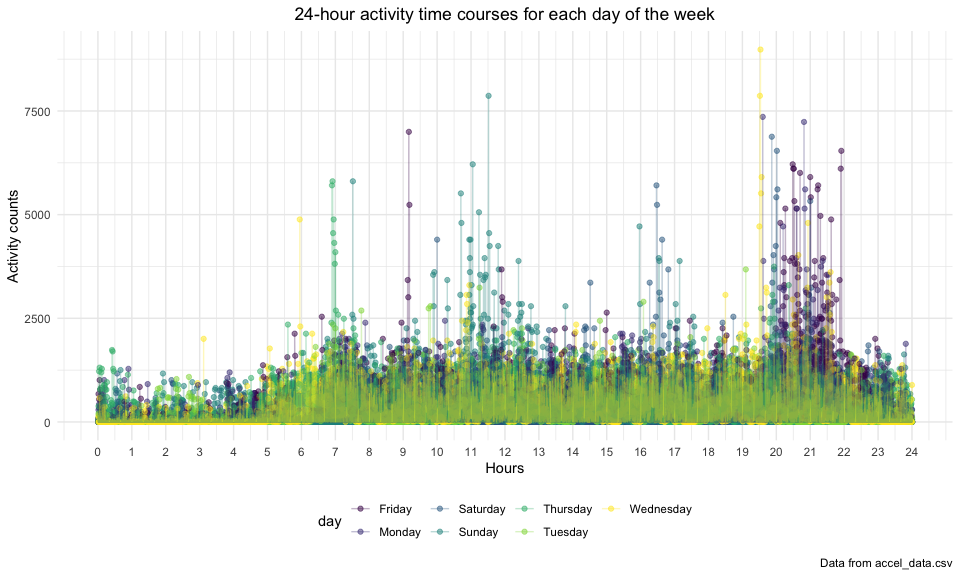
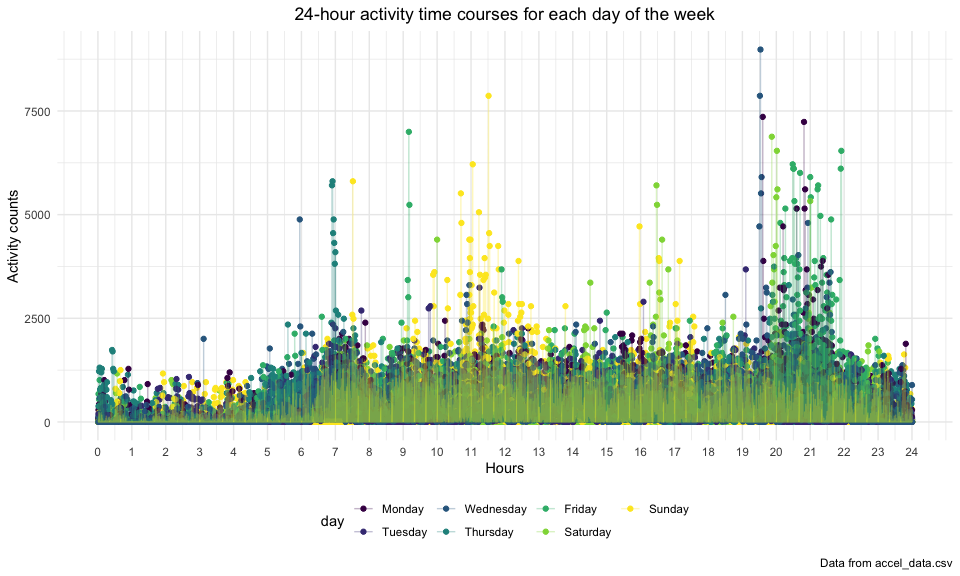
wrap up - format and descriptions

diff --git a/p8105_hw3_yj2686.md b/p8105_hw3_yj2686.md
@@ -11,7 +11,7 @@ Yiqun Jin
 data("instacart")
 ```
 
-Description of instacart dataset:
+**Description of instacart dataset:**
 
 The instacart dataset is an anonymized dataset with over 3 million
 online grocery orders from more than 200,000 Instacart users. This
@@ -19,13 +19,15 @@ dataset contains 1384617 observations of products from online orders,
 and 15 variables which are order\_id, product\_id, add\_to\_cart\_order,
 reordered, user\_id, eval\_set, order\_number, order\_dow,
 order\_hour\_of\_day, days\_since\_prior\_order, product\_name,
-aisle\_id, department\_id, aisle, department.
+aisle\_id, department\_id, aisle, department. Specifically,
+order\_number stands for the order sequence number for this user
+(1=first, n=nth), ranging from 4, 100. order\_dow stands for the day of
+the week on which the order was placed. And days\_since\_prior\_order
+stands for days since the last order, capped at 30, NA if order\_number
+= 1, ranging from 0, 30.
 
-How many aisles are there, and which aisles are the most items ordered
-from?
-
-There are `134` aisles and the most items ordered from
-`fresh vegetables`
+**How many aisles are there, and which aisles are the most items ordered
+from?**
 
 ``` r
 instacart %>% 
@@ -52,9 +54,11 @@ instacart %>%
     ## 10      112 bread                          23635
     ## # … with 124 more rows
 
-Make a plot that shows the number of items ordered in each aisle,
-limiting this to aisles with more than 10000 items ordered. Arrange
-aisles sensibly, and organize your plot so others can read it.
+**ANSWER:** There are `134` aisles and the most items ordered from
+`fresh vegetables`
+
+**Make a plot that shows the number of items ordered in each aisle,
+limiting this to aisles with more than 10000 items ordered.**
 
 ``` r
 instacart %>% 
@@ -66,21 +70,21 @@ instacart %>%
   ) %>% 
   ggplot(aes(x = ordered_num, y = aisle)) +
   geom_point() +
-  #scale_x_continuous(breaks = scales::pretty_breaks(ordered_num = 10)) +
-  scale_x_continuous(breaks = c(0, 25000, 50000,75000, 100000, 125000, 150000)) +
+  scale_x_continuous(breaks = seq(0,150000,by = 25000)) +
   labs(
     title = "The number of items ordered in each aisle",
     x = "The number of items",
     y = "Aisles",
     caption = "Data from instacart dataset"
-  ) 
+  ) +
+  theme(plot.title = element_text(hjust = 0.5))
 ```
 
 <img src="p8105_hw3_yj2686_files/figure-gfm/unnamed-chunk-3-1.png" width="90%" />
 
-Make a table showing the three most popular items in each of the aisles
-“baking ingredients”, “dog food care”, and “packaged vegetables fruits”
-and the number of times each item is ordered.
+**Make a table showing the three most popular items in each of the
+aisles “baking ingredients”, “dog food care”, and “packaged vegetables
+fruits” and the number of times each item is ordered.**
 
 ``` r
 instacart %>% 
@@ -107,8 +111,8 @@ instacart %>%
 | packaged vegetables fruits |    2 | Organic Raspberries                             |           1920 |
 | packaged vegetables fruits |    3 | Organic Blueberries                             |           1692 |
 
-Make a table showing the mean hour of the day at which Pink Lady Apples
-and Coffee Ice Cream are ordered on each day of the week:
+**Make a table showing the mean hour of the day at which Pink Lady
+Apples and Coffee Ice Cream are ordered on each day of the week:**
 
 ``` r
 instacart %>% 
@@ -154,11 +158,9 @@ brfss_df = brfss_smart2010 %>%
   mutate(response = factor(response, levels = c("Poor", "Fair", "Good", "Very good", "Excellent"),ordered = TRUE)) %>% 
   arrange(response) %>% 
   select(-locationabbr)
-  ##select(-locationabbr, -class, -topic,  -question, -c(confidence_limit_low:geo_location))
 ```
 
-1.  In 2002, which states were observed at 7 or more locations? What
-    about in 2010?
+**In 2002, which states were observed at 7 or more locations?**
 
 ``` r
 brfss_2002 = brfss_df %>% 
@@ -182,8 +184,10 @@ brfss_2002
     ## 5 NJ        8
     ## 6 PA       10
 
-ANSWER: CT, FL, MA, NC, NJ, PA were observed at 7 or more locations in
-2002.
+**ANSWER:** CT, FL, MA, NC, NJ, PA were observed at 7 or more locations
+in 2002.
+
+**What about in 2010?**
 
 ``` r
 brfss_2010 = brfss_df %>% 
@@ -215,12 +219,12 @@ brfss_2010
     ## 13 TX       16
     ## 14 WA       10
 
-ANSWER: CA, CO, FL, MA, MD, NC, NE, NJ, NY, OH, PA, SC, TX, WA were
+**ANSWER:** CA, CO, FL, MA, MD, NC, NE, NJ, NY, OH, PA, SC, TX, WA were
 observed at 7 or more locations in 2010.
 
-2.  Construct a dataset that is limited to Excellent responses, and
-    contains, year, state, and a variable that averages the data\_value
-    across locations within a state.
+**Construct a dataset that is limited to Excellent responses, and
+contains, year, state, and a variable that averages the data\_value
+across locations within a state.**
 
 ``` r
 excellent_df = brfss_df %>%
@@ -251,44 +255,43 @@ excellent_df
     ## 10 AL     2004            20  
     ## # … with 433 more rows
 
-Make a “spaghetti” plot of this average value over time within a state
-(that is, make a plot showing a line for each state across years – the
-geom\_line geometry and group aesthetic will help).
+**Make a “spaghetti” plot of the average value over time within a
+state.**
 
 ``` r
 excellent_df %>% 
   ggplot(aes(x = year, y = mean_data_value, color = state)) +
   geom_line(alpha = .5, aes(group = state, color = state)) +
   geom_point(alpha = .5, aes(group = state, color = state)) +
-  theme(axis.text.x = element_text(size = 10), legend.position = "right") +
   labs(
     title = "Average data value of Excellent responses over time in different states",
     x = "Year",
     y = "Mean data value of Excellent responses",
     caption = "Data from brfss_smart2010"
   ) +
-  theme(plot.title = element_text(hjust = 0.5))
+  theme(legend.position = "right",
+        plot.title = element_text(hjust = 0.5))
 ```
 
 <img src="p8105_hw3_yj2686_files/figure-gfm/unnamed-chunk-11-1.png" width="90%" />
 
-3.  Make a two-panel plot showing, for the years 2006, and 2010,
-    distribution of data\_value for responses (“Poor” to “Excellent”)
-    among locations in NY State.
+**Make a two-panel plot showing, for the years 2006, and 2010,
+distribution of data\_value for responses (“Poor” to “Excellent”) among
+locations in NY State.**
 
 ``` r
 NY_distribution = brfss_df %>% 
   filter(year %in% c(2006, 2010),
          state == "NY") %>% 
   group_by(year, response) %>% 
-  summarize(mean_dataValue = mean(data_value, na.rm = TRUE)) 
+  summarize(average_data_value = mean(data_value, na.rm = TRUE)) 
 ```
 
     ## `summarise()` has grouped output by 'year'. You can override using the `.groups` argument.
 
 ``` r
 NY_distribution %>% 
-  ggplot(aes(x = response, y = mean_dataValue, fill = response)) +
+  ggplot(aes(x = response, y = average_data_value, fill = response)) +
   geom_col(position = "dodge") +
   facet_grid(. ~ year) +
   labs(
@@ -303,8 +306,6 @@ NY_distribution %>%
 
 ## Problem 3
 
-Load, tidy, and otherwise wrangle the data.
-
 **Load and tidy Data**
 
 ``` r
@@ -317,40 +318,48 @@ accel_df = read.csv("./accel_data.csv") %>%
     names_prefix = "activity_"
   ) %>% 
   mutate(
-    weekend_or_weekday = if_else((day == "Saturday" | day == "Sunday"),"weekend","weekday"),
-    minute = as.numeric(minute)
-  )
+    weekend_or_weekday = if_else((day == "Saturday" | day == "Sunday"),"Weekend","Weekday"),
+    minute = as.numeric(minute),
+    day = factor(day, level = c("Monday","Tuesday","Wednesday","Thursday","Friday","Saturday","Sunday")),
+    weekend_or_weekday = factor(weekend_or_weekday, level = c("Weekday", "Weekend"))
+  ) %>% 
+  relocate(week,day_id, day,weekend_or_weekday)
 
 
 accel_df
 ```
 
     ## # A tibble: 50,400 × 6
-    ##     week day_id day    minute activity_counts weekend_or_weekday
-    ##    <int>  <int> <chr>   <dbl>           <dbl> <chr>             
-    ##  1     1      1 Friday      1            88.4 weekday           
-    ##  2     1      1 Friday      2            82.2 weekday           
-    ##  3     1      1 Friday      3            64.4 weekday           
-    ##  4     1      1 Friday      4            70.0 weekday           
-    ##  5     1      1 Friday      5            75.0 weekday           
-    ##  6     1      1 Friday      6            66.3 weekday           
-    ##  7     1      1 Friday      7            53.8 weekday           
-    ##  8     1      1 Friday      8            47.8 weekday           
-    ##  9     1      1 Friday      9            55.5 weekday           
-    ## 10     1      1 Friday     10            43.0 weekday           
+    ##     week day_id day    weekend_or_weekday minute activity_counts
+    ##    <int>  <int> <fct>  <fct>               <dbl>           <dbl>
+    ##  1     1      1 Friday Weekday                 1            88.4
+    ##  2     1      1 Friday Weekday                 2            82.2
+    ##  3     1      1 Friday Weekday                 3            64.4
+    ##  4     1      1 Friday Weekday                 4            70.0
+    ##  5     1      1 Friday Weekday                 5            75.0
+    ##  6     1      1 Friday Weekday                 6            66.3
+    ##  7     1      1 Friday Weekday                 7            53.8
+    ##  8     1      1 Friday Weekday                 8            47.8
+    ##  9     1      1 Friday Weekday                 9            55.5
+    ## 10     1      1 Friday Weekday                10            43.0
     ## # … with 50,390 more rows
 
-Describe the resulting dataset:
+**Describe the resulting dataset:**
 
-The accel\_df contains 50400 observations of activity (accelerometer
-data), and there are 6 variables, which are week, day\_id, day, minute,
-activity\_counts, weekend\_or\_weekday that describing the information
-of data.
+The accel\_df dataset contains five weeks of accelerometer data
+collected on a 63 year-old male with BMI 25, who was admitted to the
+Advanced Cardiac Care Center of Columbia University Medical Center and
+diagnosed with congestive heart failure (CHF). The accel\_df dataset
+contains 50400 observations of activity (accelerometer data), and there
+are 6 variables, which are week, day\_id, day, weekend\_or\_weekday,
+minute, activity\_counts that describing the information of data.
+Specifically, minute stands for the number of minute of a 24-hour day
+starting at midnight, range from 1, 1440 minutes. And activity\_counts
+stands for the activity count of the male collected by accelerometer,
+ranging from 1, 8982.
 
-Traditional analyses of accelerometer data focus on the total activity
-over the day. Using your tidied dataset, aggregate accross minutes to
-create a total activity variable for each day, and create a table
-showing these totals. Are any trends apparent?
+**Aggregate across minutes to create a total activity variable for each
+day, and create a table showing these totals.**
 
 ``` r
 total_activity_df = accel_df %>% 
@@ -398,6 +407,8 @@ knitr::kable(total_activity_df)
 |      34 |       367824.00 |
 |      35 |       445366.00 |
 
+**Are any trends apparent?**
+
 ``` r
 ggplot(total_activity_df,aes(x = day_id, y = total_activity)) +
   geom_point() +
@@ -414,18 +425,18 @@ ggplot(total_activity_df,aes(x = day_id, y = total_activity)) +
 
 <img src="p8105_hw3_yj2686_files/figure-gfm/unnamed-chunk-15-1.png" width="90%" />
 
-The trend of total activity counts for each day is dramatically changed
-over five weeks.
+**ANSWER:**
 
-Accelerometer data allows the inspection activity over the course of the
-day. Make a single-panel plot that shows the 24-hour activity time
-courses for each day and use color to indicate day of the week. Describe
-in words any patterns or conclusions you can make based on this graph.
+The trend of total activity counts for each day is dramatically changed
+over time in five weeks.
+
+**Make a single-panel plot that shows the 24-hour activity time courses
+for each day and use color to indicate day of the week.**
 
 ``` r
 accel_df %>% 
   ggplot(aes(x = minute, y = activity_counts, color = day)) +
-  geom_point(alpha = .5) +
+  geom_point() +
   geom_line(alpha = .3) +
   scale_x_continuous(breaks = seq(0,1440,by = 60),
                      label = seq(0,24,by = 1),
@@ -440,3 +451,11 @@ accel_df %>%
 ```
 
 <img src="p8105_hw3_yj2686_files/figure-gfm/unnamed-chunk-16-1.png" width="90%" />
+
+**Describe the pattern of the graph:**
+
+This 63 year-old male typically start activity at around 7 AM. The
+activity counts between 11 AM to 12 AM and 16 PM to 17 PM increased
+during weekend (Saturday and Sunday). There is a large increase in
+activity counts between 20 PM to 22 PM for most of the days in week
+(especially on Friday). And this male tend to sleep at around 22 PM.
